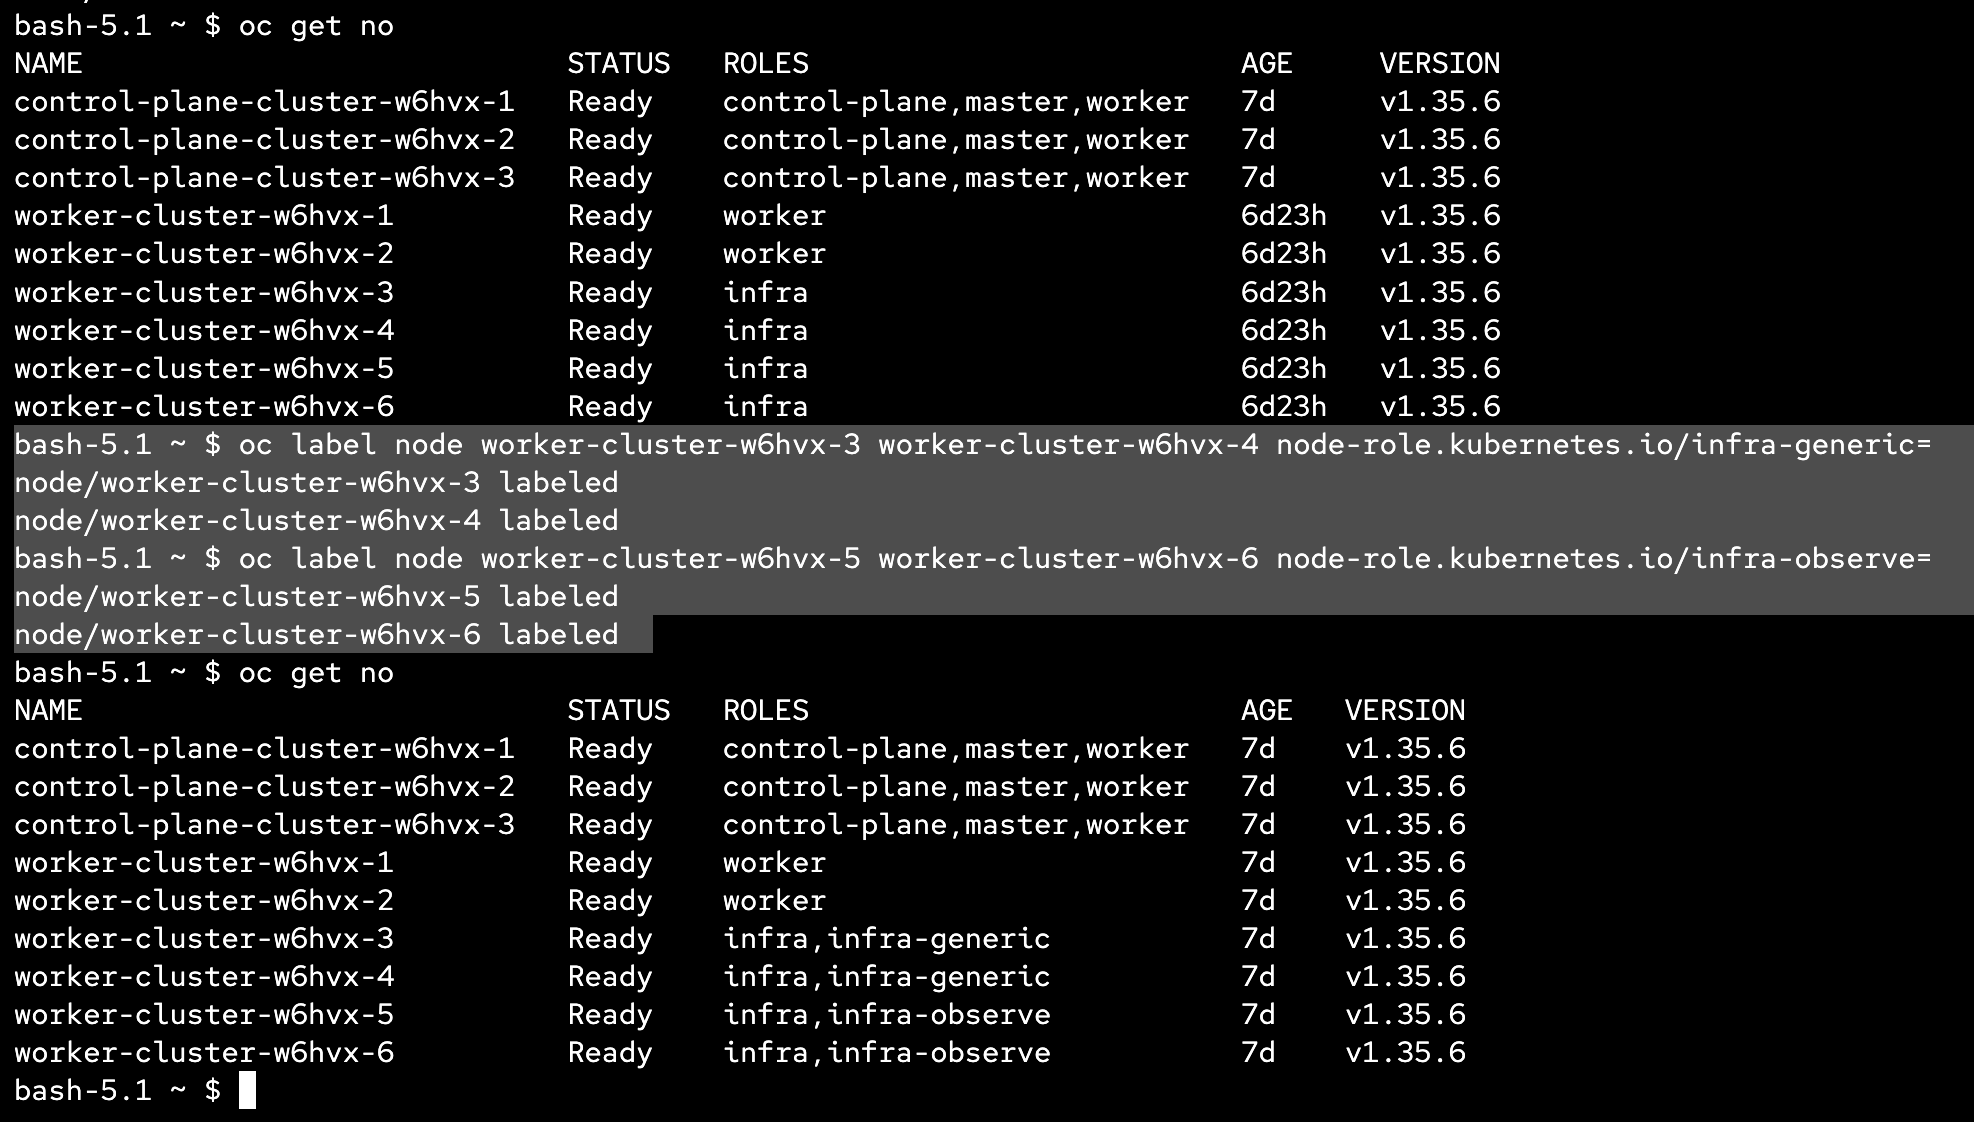
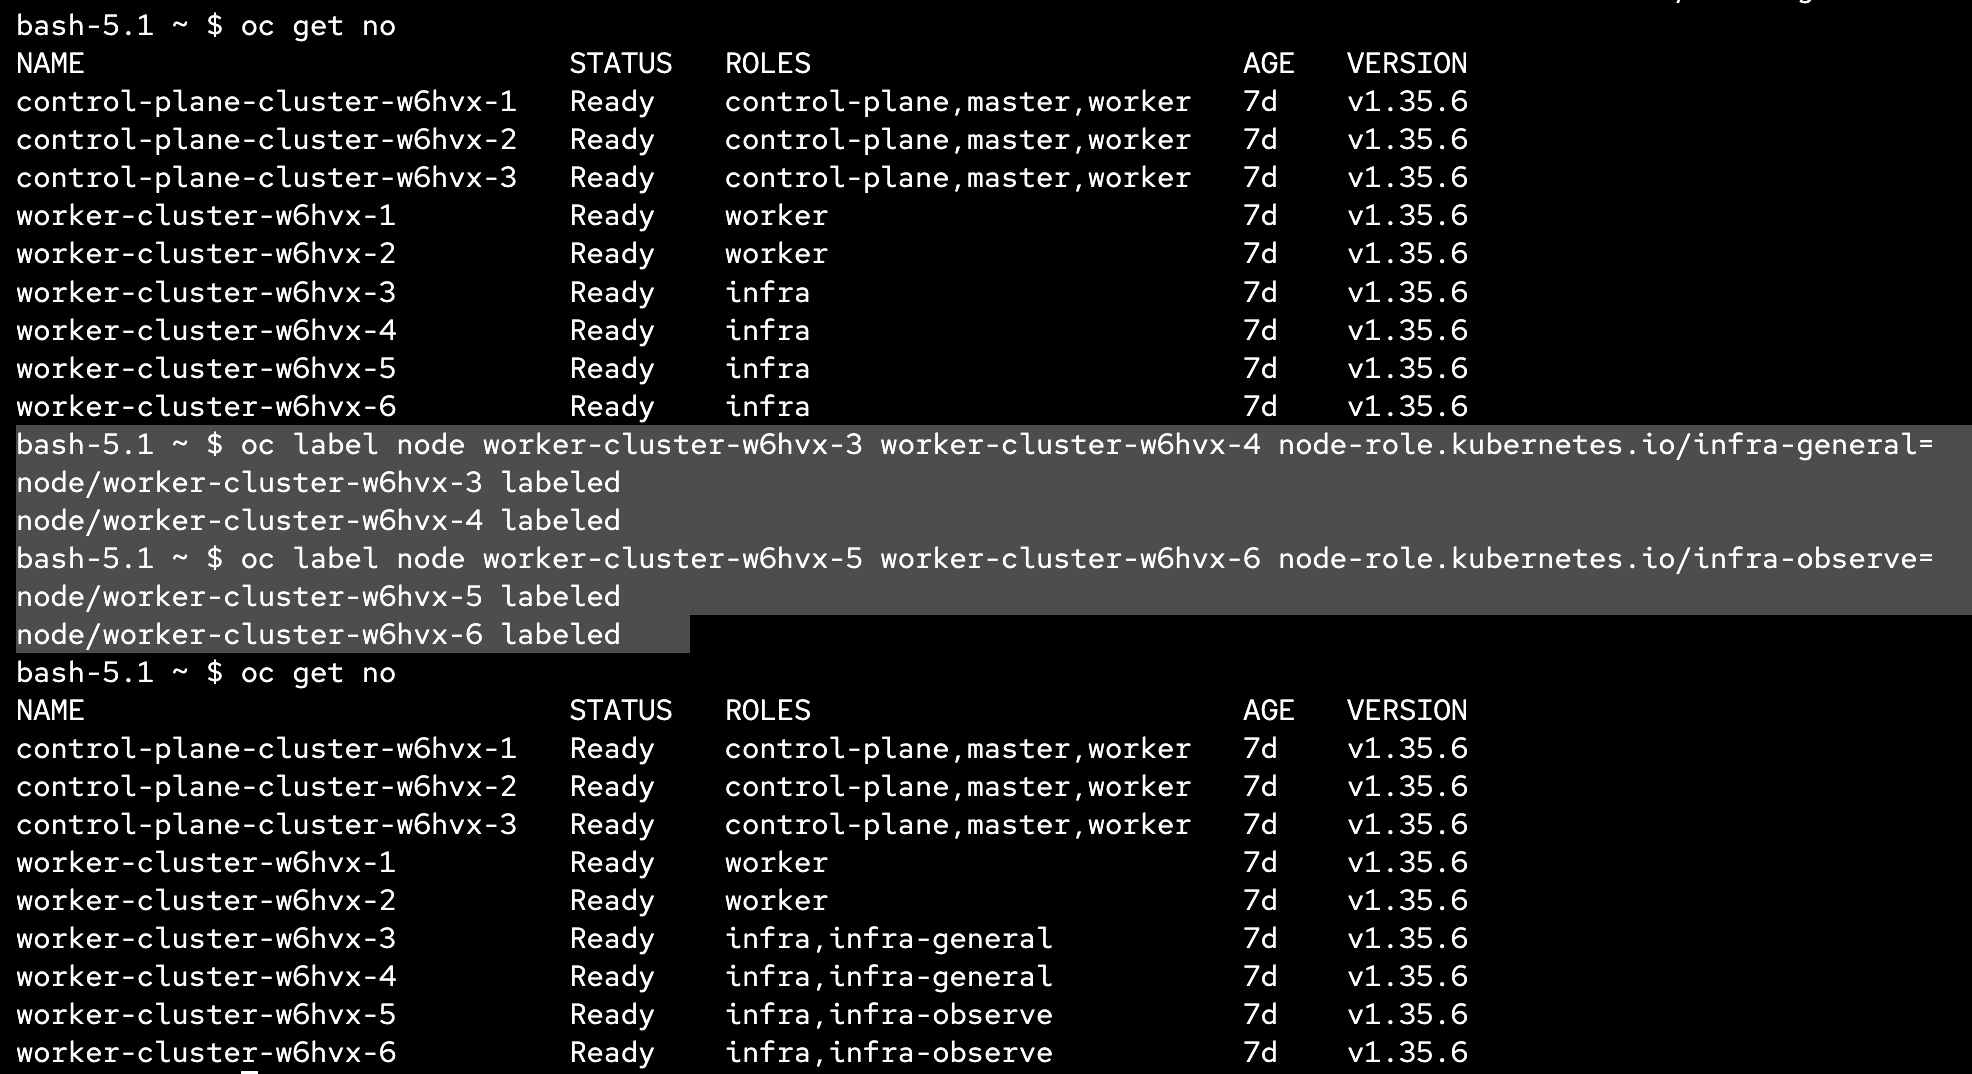
fix: update img node label

Changed region(s): [[0.0, 0.0, 1.0, 1.0], [0.3712, 0.6145, 0.6496, 1.0], [0.6805, 0.6145, 0.7424, 1.0]]

diff --git a/modules/02-placement/README.md b/modules/02-placement/README.md
@@ -72,7 +72,7 @@ oc label node <node-name> node-role.kubernetes.io/worker-
 ### Add role `infra-generic` and role `infra-observe` 
 
 ```bash
-oc label node <node-name> node-role.kubernetes.io/infra-generic=
+oc label node <node-name> node-role.kubernetes.io/infra-general=
 oc label node <node-name> node-role.kubernetes.io/infra-observe=
 ```
 ![node add label complete](../../img/module-02/node-label-infra-complete.png)
